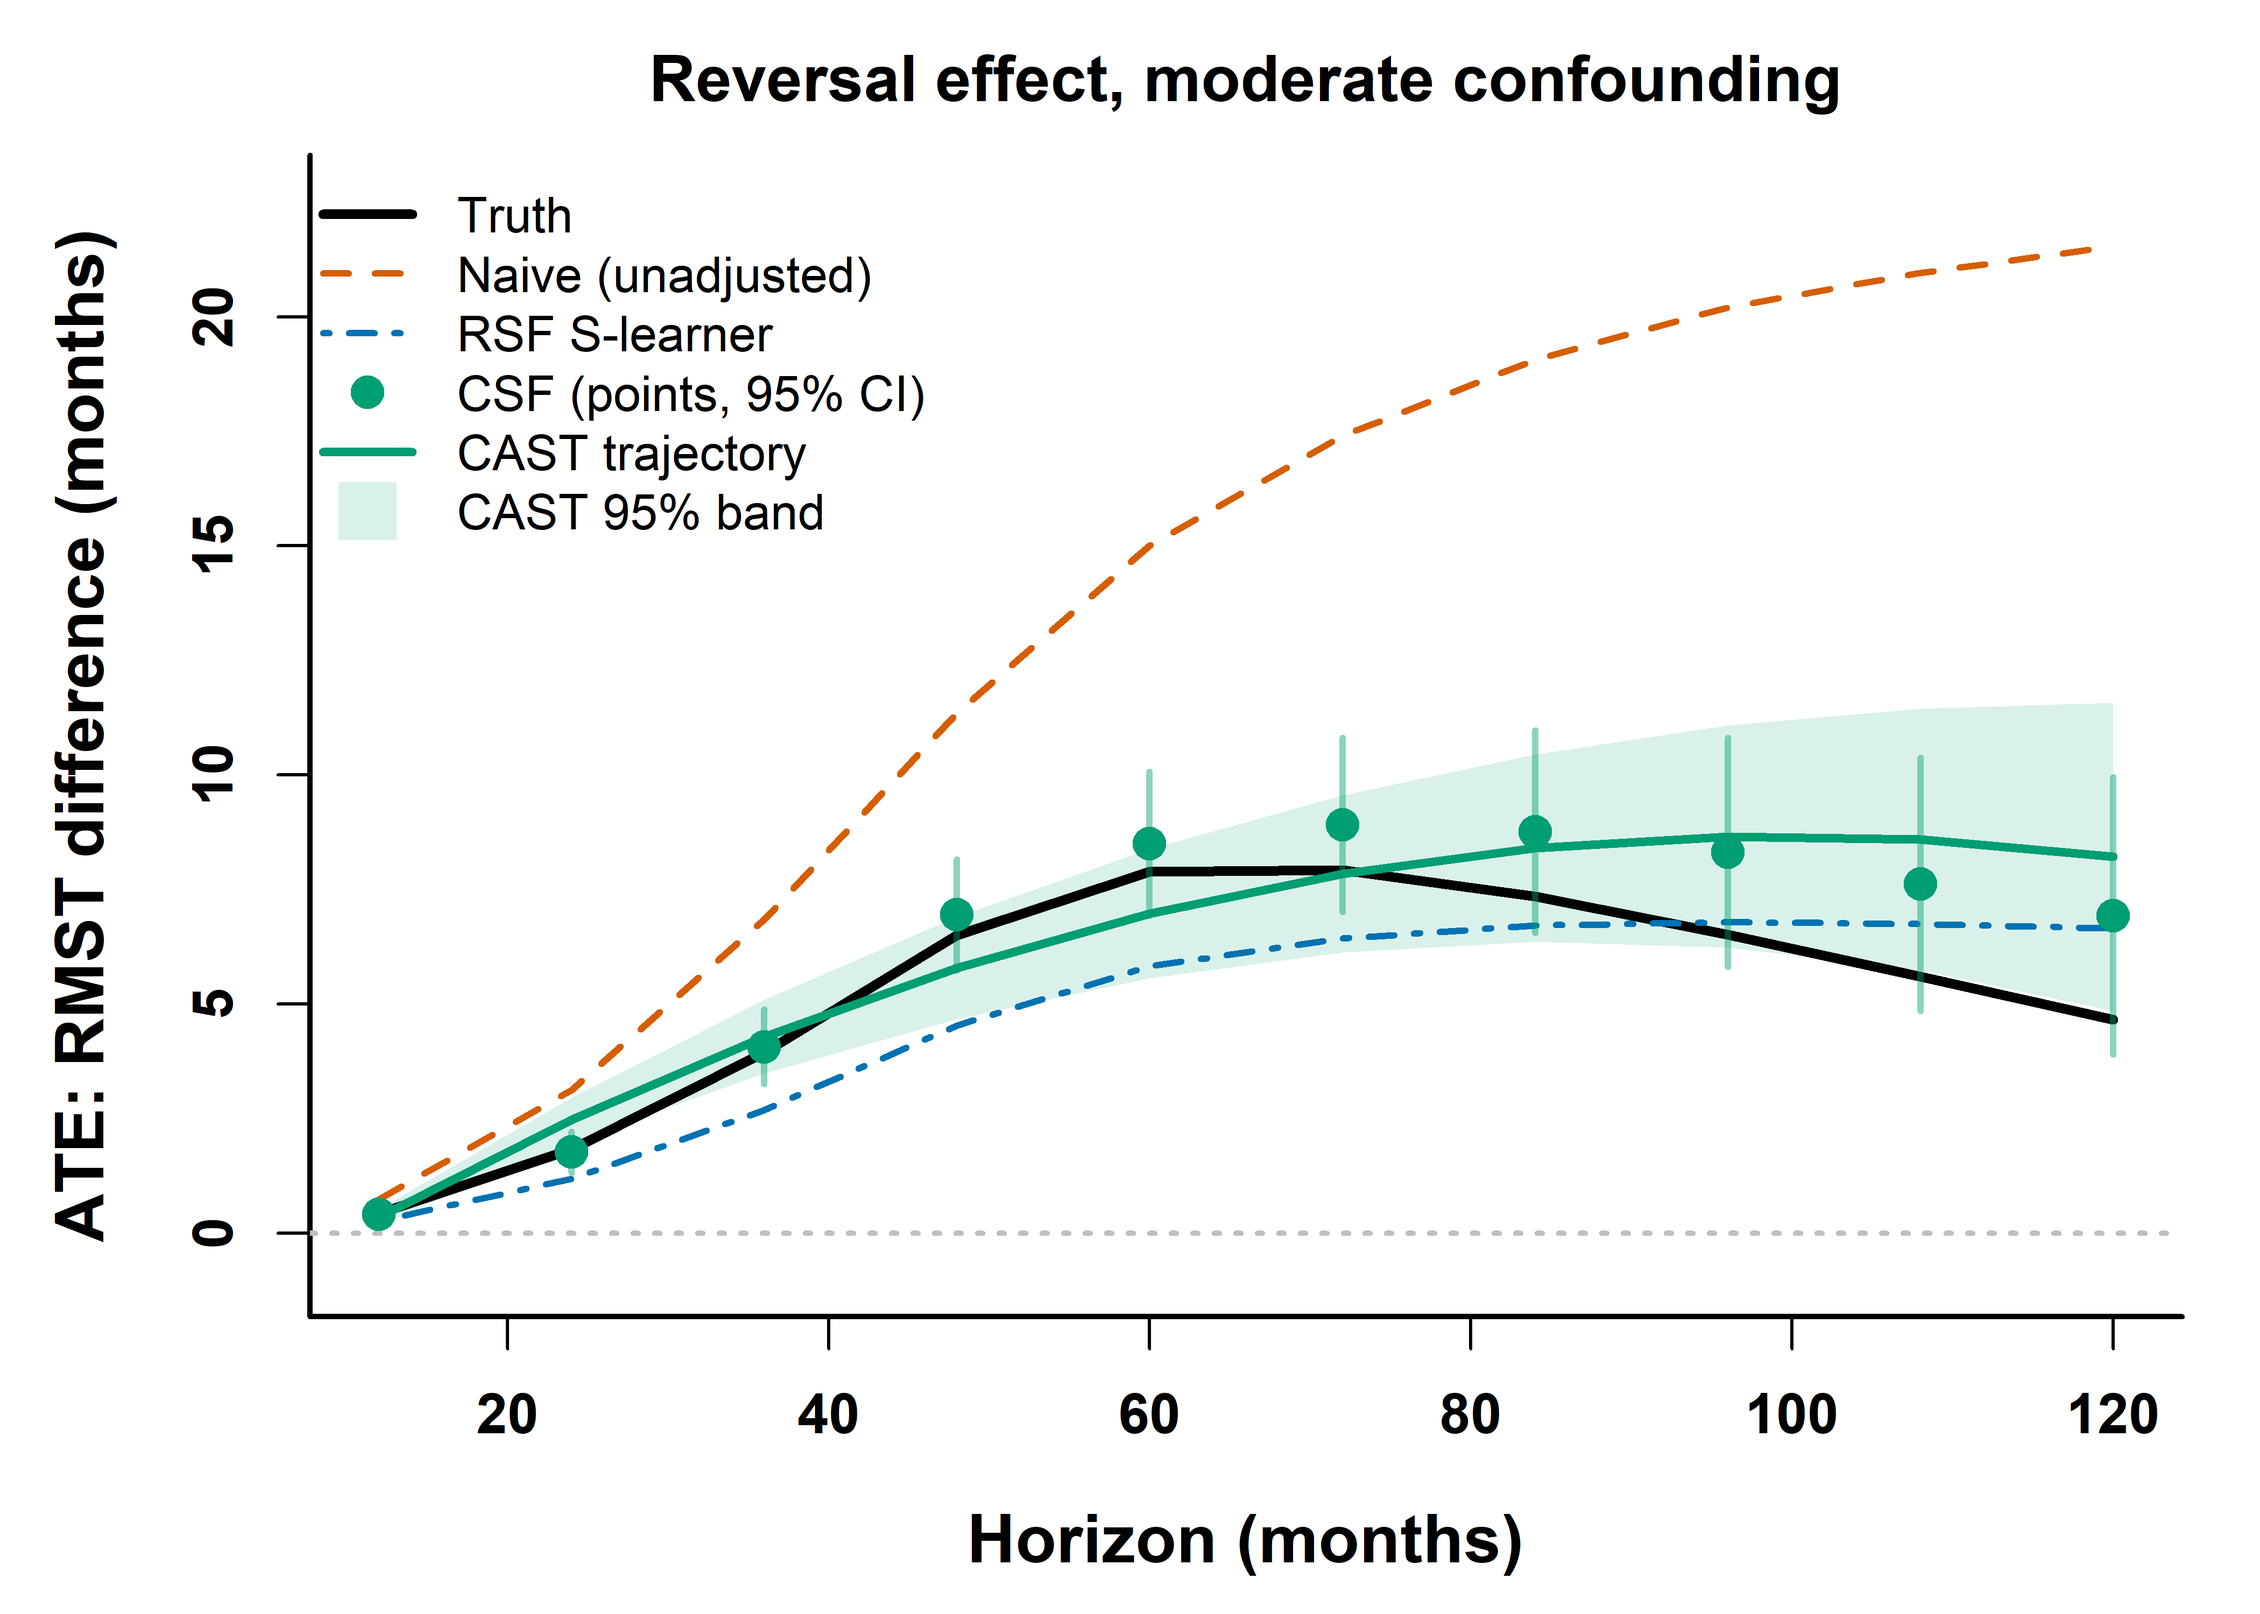
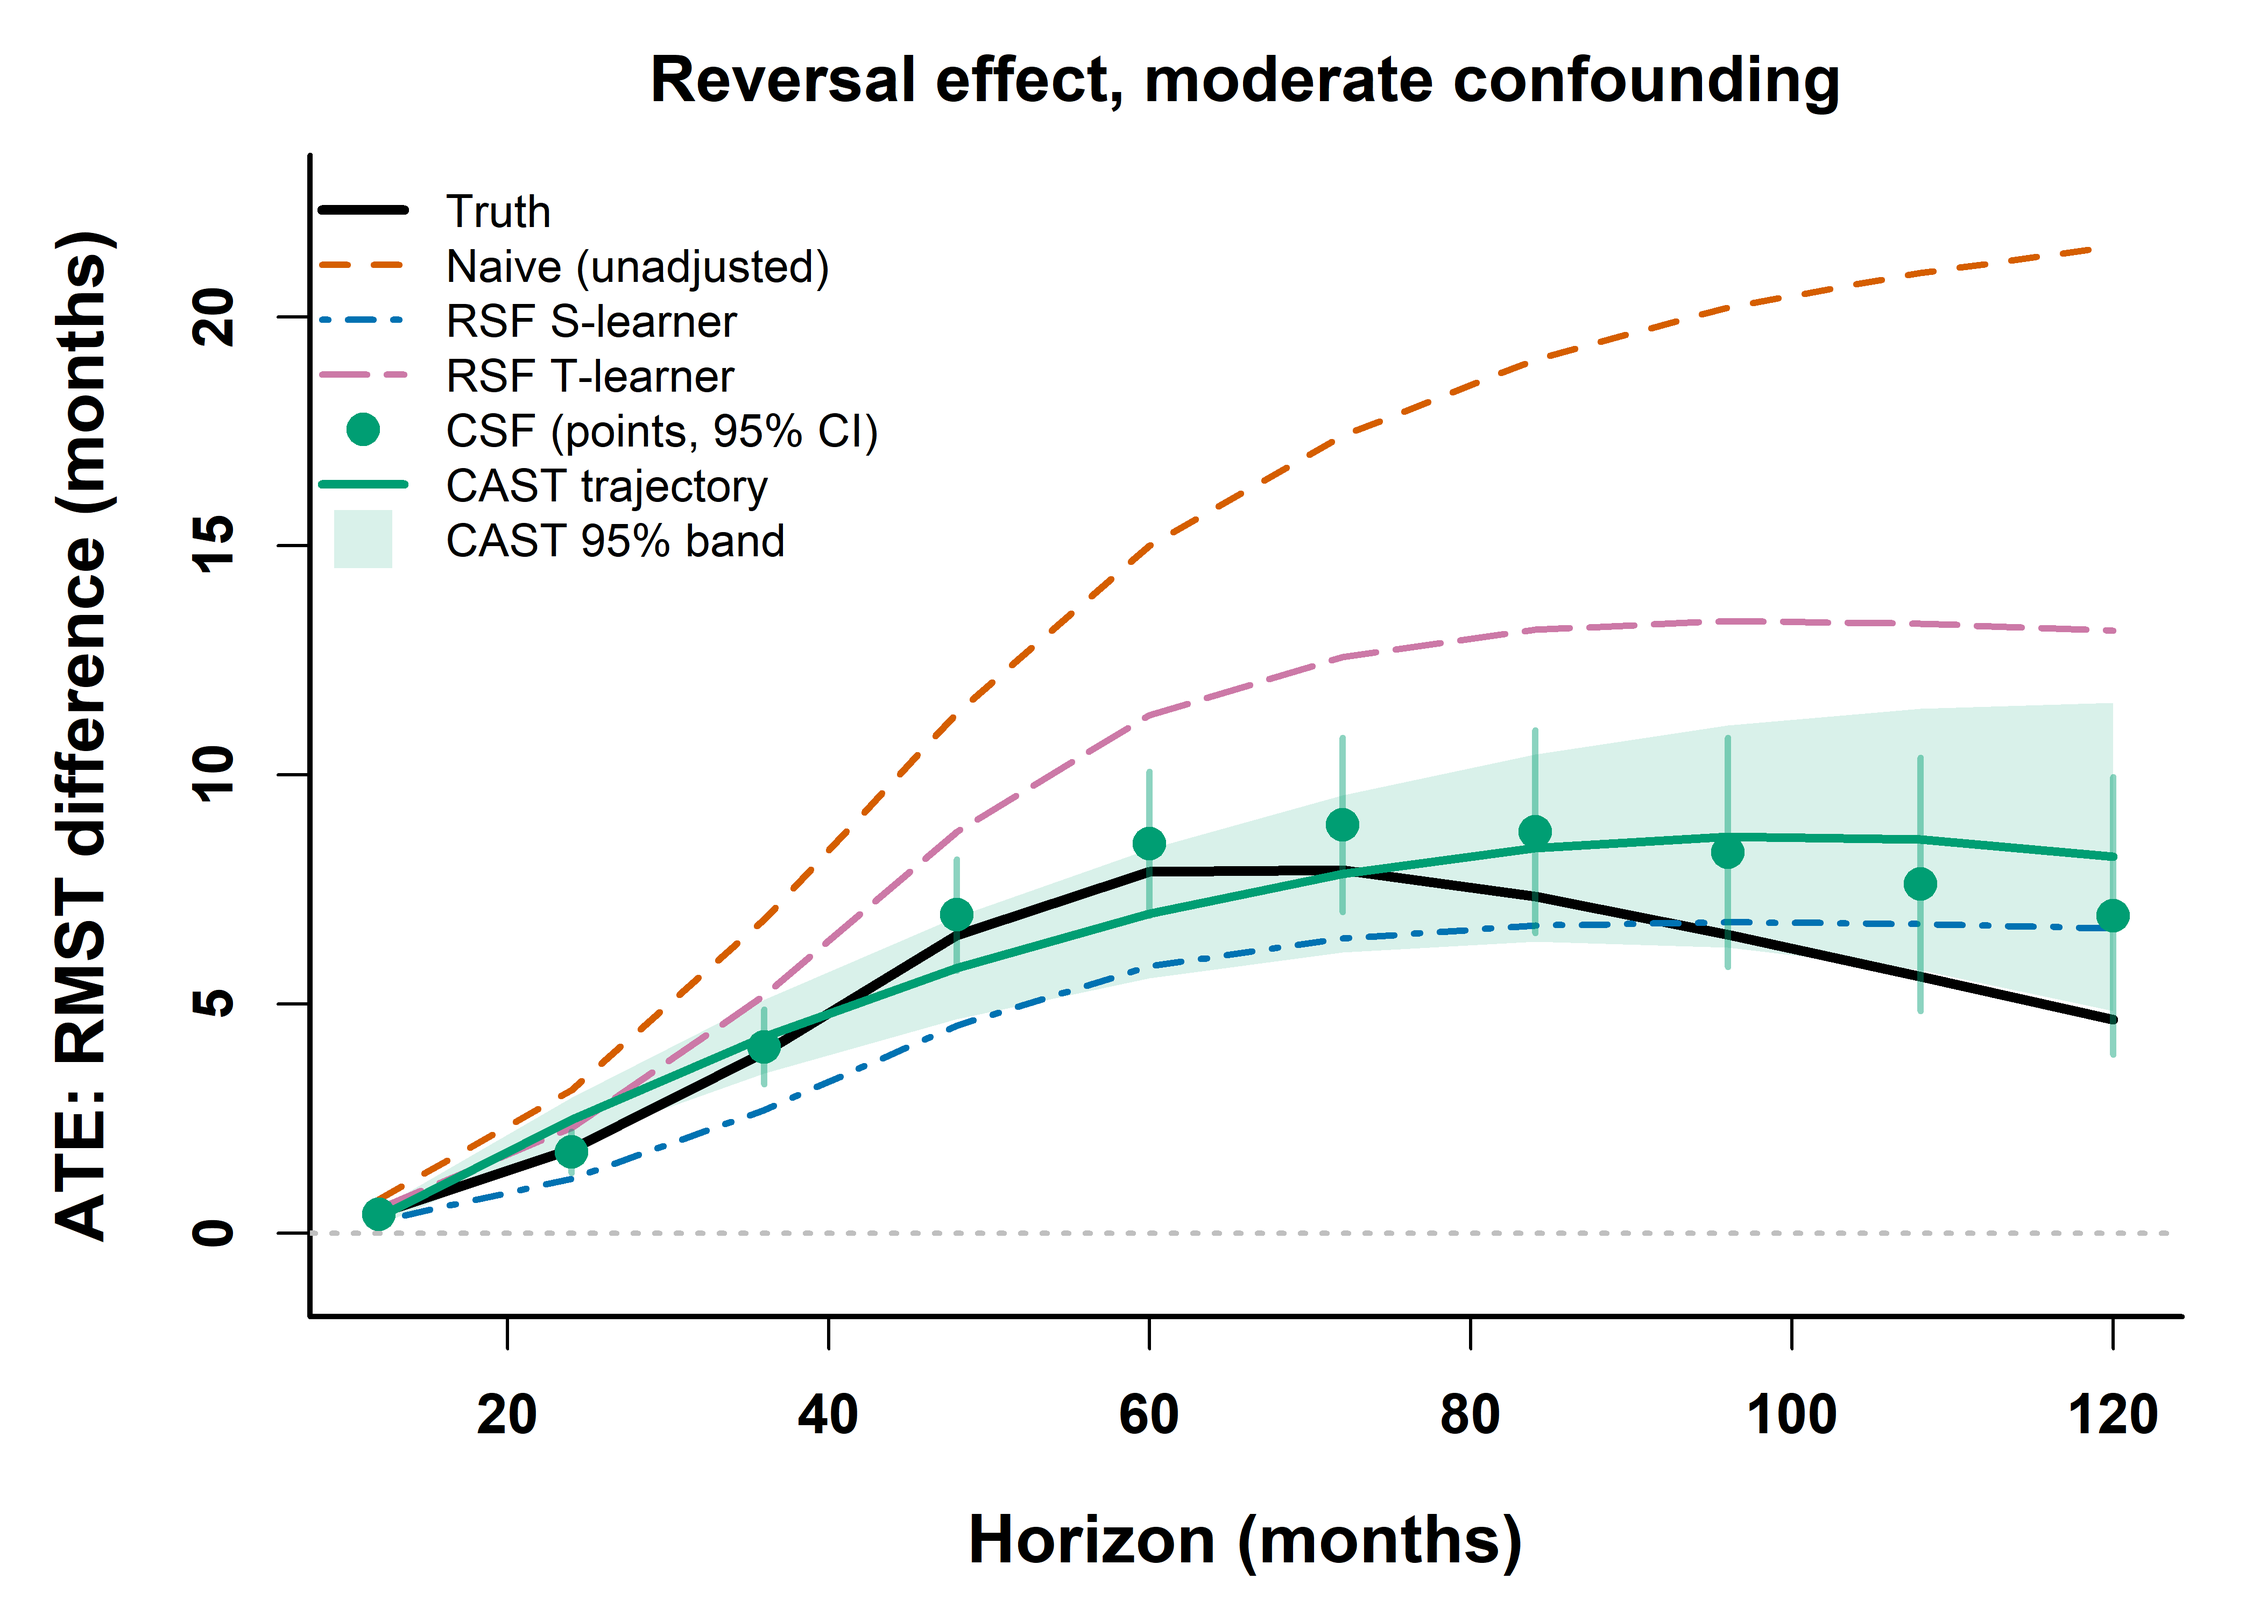
Add RSF T-learner baseline alongside S-learner (two non-orthogonal failure modes); regenerate figures + data

diff --git a/docs/app.js b/docs/app.js
@@ -3,16 +3,17 @@
 // selector, and per-method toggles, plus accuracy / Cox / balance / shrinkage cards.
 
 const COLORS = {
-  truth: "#111111", naive: "#d55e00", rsf: "#0072b2",
+  truth: "#111111", naive: "#d55e00", rsf: "#0072b2", tlearner: "#cc79a7",
   csf: "#009e73", cast: "#009e73"
 };
 const METHODS = [
-  { key: "truth",   label: "Truth",            color: COLORS.truth },
-  { key: "naive",   label: "Naive (unadjusted)", color: COLORS.naive },
-  { key: "rsf",     label: "RSF S-learner",    color: COLORS.rsf },
-  { key: "csf",     label: "CSF (points)",     color: COLORS.csf },
-  { key: "cast",    label: "CAST trajectory",  color: COLORS.cast },
-  { key: "castci",  label: "CAST 95% band", color: COLORS.cast }
+  { key: "truth",    label: "Truth",            color: COLORS.truth },
+  { key: "naive",    label: "Naive (unadjusted)", color: COLORS.naive },
+  { key: "rsf",      label: "RSF S-learner",    color: COLORS.rsf },
+  { key: "tlearner", label: "RSF T-learner",    color: COLORS.tlearner },
+  { key: "csf",      label: "CSF (points)",     color: COLORS.csf },
+  { key: "cast",     label: "CAST trajectory",  color: COLORS.cast },
+  { key: "castci",   label: "CAST 95% band", color: COLORS.cast }
 ];
 const CONF_WORDS = ["none", "mild", "moderate", "strong", "very strong"];
 
@@ -106,6 +107,8 @@ function render() {
     traces.push(line(h, s.naive, "Naive", COLORS.naive, 2.2, "dash"));
   if (state.visible.rsf)
     traces.push(line(h, s.rsf, "RSF S-learner", COLORS.rsf, 2.2, "dashdot"));
+  if (state.visible.tlearner)
+    traces.push(line(h, s.tlearner, "RSF T-learner", COLORS.tlearner, 2.2, "longdash"));
   if (state.visible.csf)
     traces.push({ x: h, y: s.csf.ate, mode: "markers", name: "CSF (points)",
       marker: { color: COLORS.csf, size: 9 },
@@ -139,7 +142,8 @@ function renderCards(s) {
   const rmse = s.rmse;
   const rows = [
     ["Naive", rmse.naive, COLORS.naive],
-    ["RSF", rmse.rsf, COLORS.rsf],
+    ["S-learner", rmse.rsf, COLORS.rsf],
+    ["T-learner", rmse.tlearner, COLORS.tlearner],
     ["CSF", rmse.csf, COLORS.csf],
     ["CAST", rmse.cast, COLORS.cast]
   ].filter(r => r[1] != null);

diff --git a/docs/index.html b/docs/index.html
@@ -115,16 +115,22 @@
       removing) the bias under strong confounding, where treatment propensities
       are pushed toward 0 or 1 and overlap is stressed (a positivity limit; see
       the strong-confounding figures, where CSF sits above the truth but far
-      below the naive curve). The <strong>RSF S-learner</strong> (a plain survival
-      forest with treatment as a feature) is shown as an ML baseline that is
-      <em>not</em> orthogonalized and carries regularization bias.</p>
+      below the naive curve). Two non-orthogonalized ML baselines are shown for
+      contrast: the <strong>RSF S-learner</strong> (one survival forest with
+      treatment as a feature), which can ignore treatment when splitting and so
+      attenuates the effect toward zero even with no confounding, and the
+      <strong>RSF T-learner</strong> (separate per-arm forests), which avoids
+      that attenuation but, lacking a propensity model, extrapolates across arms
+      and stays biased under confounding. Neither is orthogonalized; only CSF
+      adjusts in a principled way.</p>
     </div>
     <div class="step">
       <h2>3 · Baselines fall short</h2>
       <p><strong>Cox</strong> gives one hazard ratio for all time and assumes
       proportional hazards; it cannot express a rising-then-plateauing or
-      reversing effect. <strong>RSF</strong> predicts survival but gives no
-      principled causal contrast.</p>
+      reversing effect. The <strong>S- and T-learner</strong> survival forests
+      predict survival well but give no principled causal contrast, and fail in
+      two different ways (effect attenuation versus cross-arm extrapolation).</p>
     </div>
     <div class="step">
       <h2>4 · CAST extends CSF to a trajectory</h2>

diff --git a/README.md b/README.md
@@ -49,7 +49,7 @@ cast_demo_website/
                          covariance, covariance-aware quadratic trajectory fit,
                          true/KM RMST helpers (ported from the glioma CAST pipeline)
     01_simulate.R        simulate confounded cohorts + known true ATE(t)
-    02_fit_methods.R     Naive / Cox / RSF / CSF / CAST, scored vs truth
+    02_fit_methods.R     Naive / Cox / RSF S- and T-learner / CSF / CAST, scored vs truth
     03_export.R          write docs/data/scenarios.json + PNG fallbacks
     install_packages.R   one-time dependency install
   docs/                              <- the published static site (GitHub Pages root)
@@ -130,8 +130,9 @@ Only aggregate artifacts ship. The per-patient simulated intermediates in
 1. **`R/01_simulate.R`** → `output/sim.rds`. Simulates the confounded cohorts and
    the *known* true ATE(t). One entry per scenario, each holding the per-patient
    rows and the oracle effect curve.
-2. **`R/02_fit_methods.R`** → `output/fits.rds`. Fits Naive / Cox / RSF / CSF /
-   CAST on each cohort and scores every method against the truth.
+2. **`R/02_fit_methods.R`** → `output/fits.rds`. Fits Naive / Cox / RSF S-learner /
+   RSF T-learner / CSF / CAST on each cohort and scores every method against the
+   truth.
 3. **`R/03_export.R`** → `docs/data/scenarios.json` + `docs/figs/*.png`. Writes
    the aggregate results the website reads, plus the 600-DPI fallback figures.
 
@@ -265,7 +266,7 @@ horizons (12–120 months).
 - **Published data (the only data in the repo):** `docs/data/scenarios.json`
   (~14 KB) is fully **aggregate**: per scenario it stores cohort metadata
   (shape, confounding strength, n, event rate, treated fraction, SMDs), the
-  truth / Naive / RSF ATE vectors, the CSF points with CIs, the CAST trajectory
+  truth / Naive / RSF S- and T-learner ATE vectors, the CSF points with CIs, the CAST trajectory
   with band and peak metrics, the Cox HR + PH-test p-value, the Ledoit–Wolf
   shrinkage diagnostics, and each method's RMSE vs. truth. No patient-level rows.
   Because the cohorts are synthetic, nothing sensitive exists even in the
